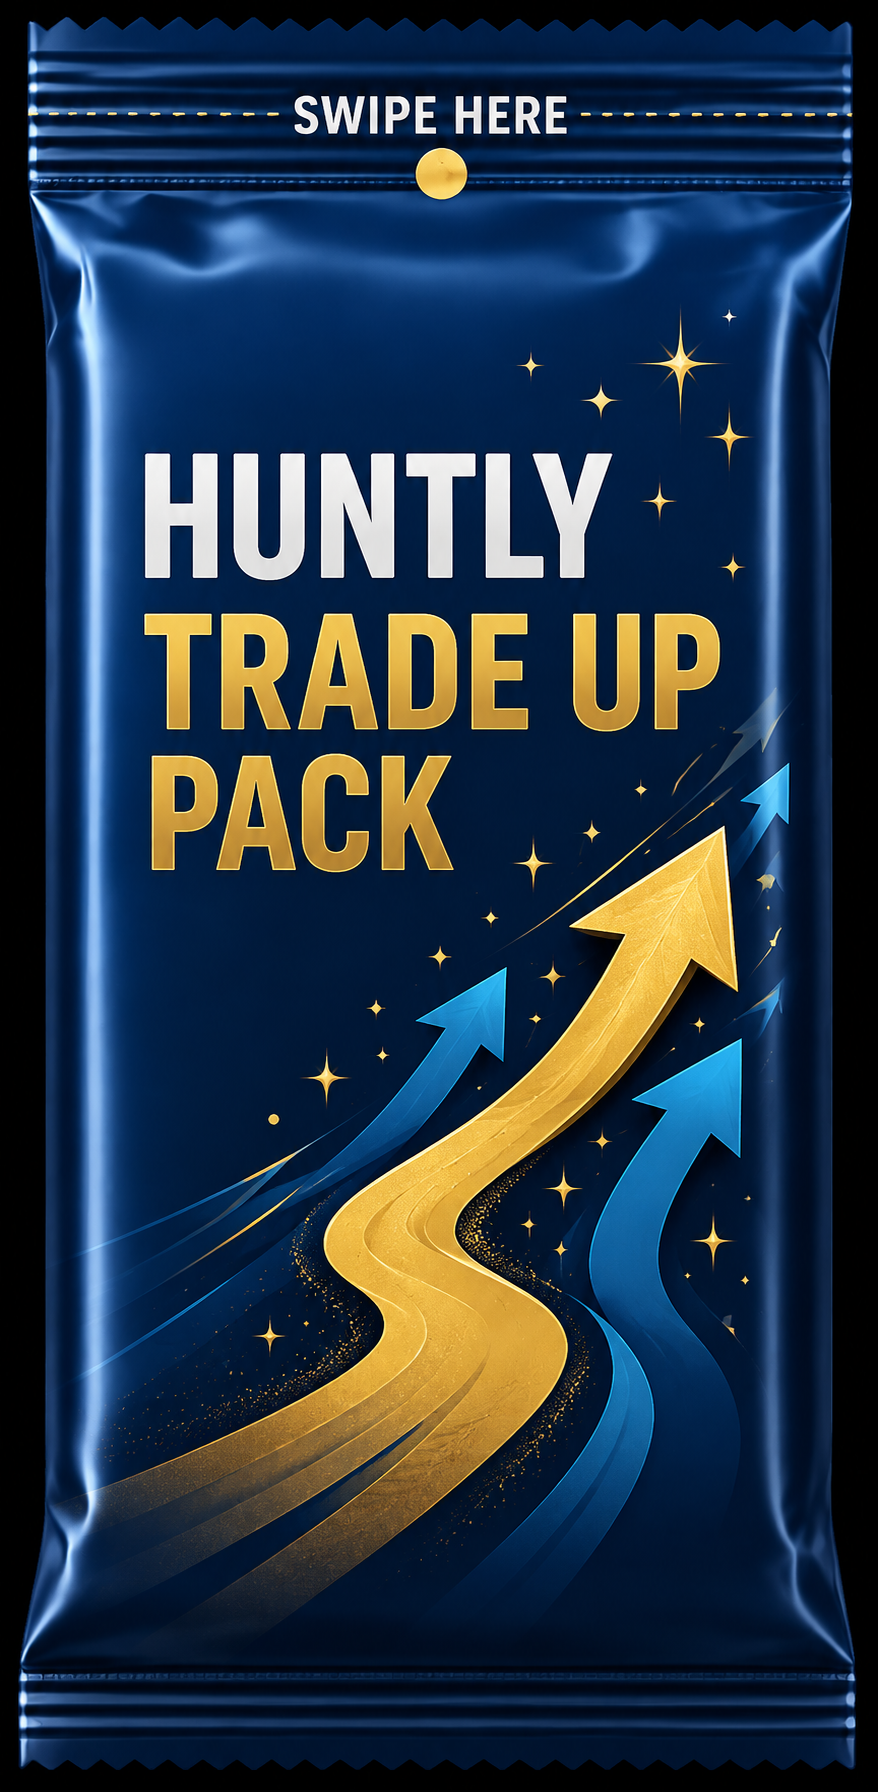
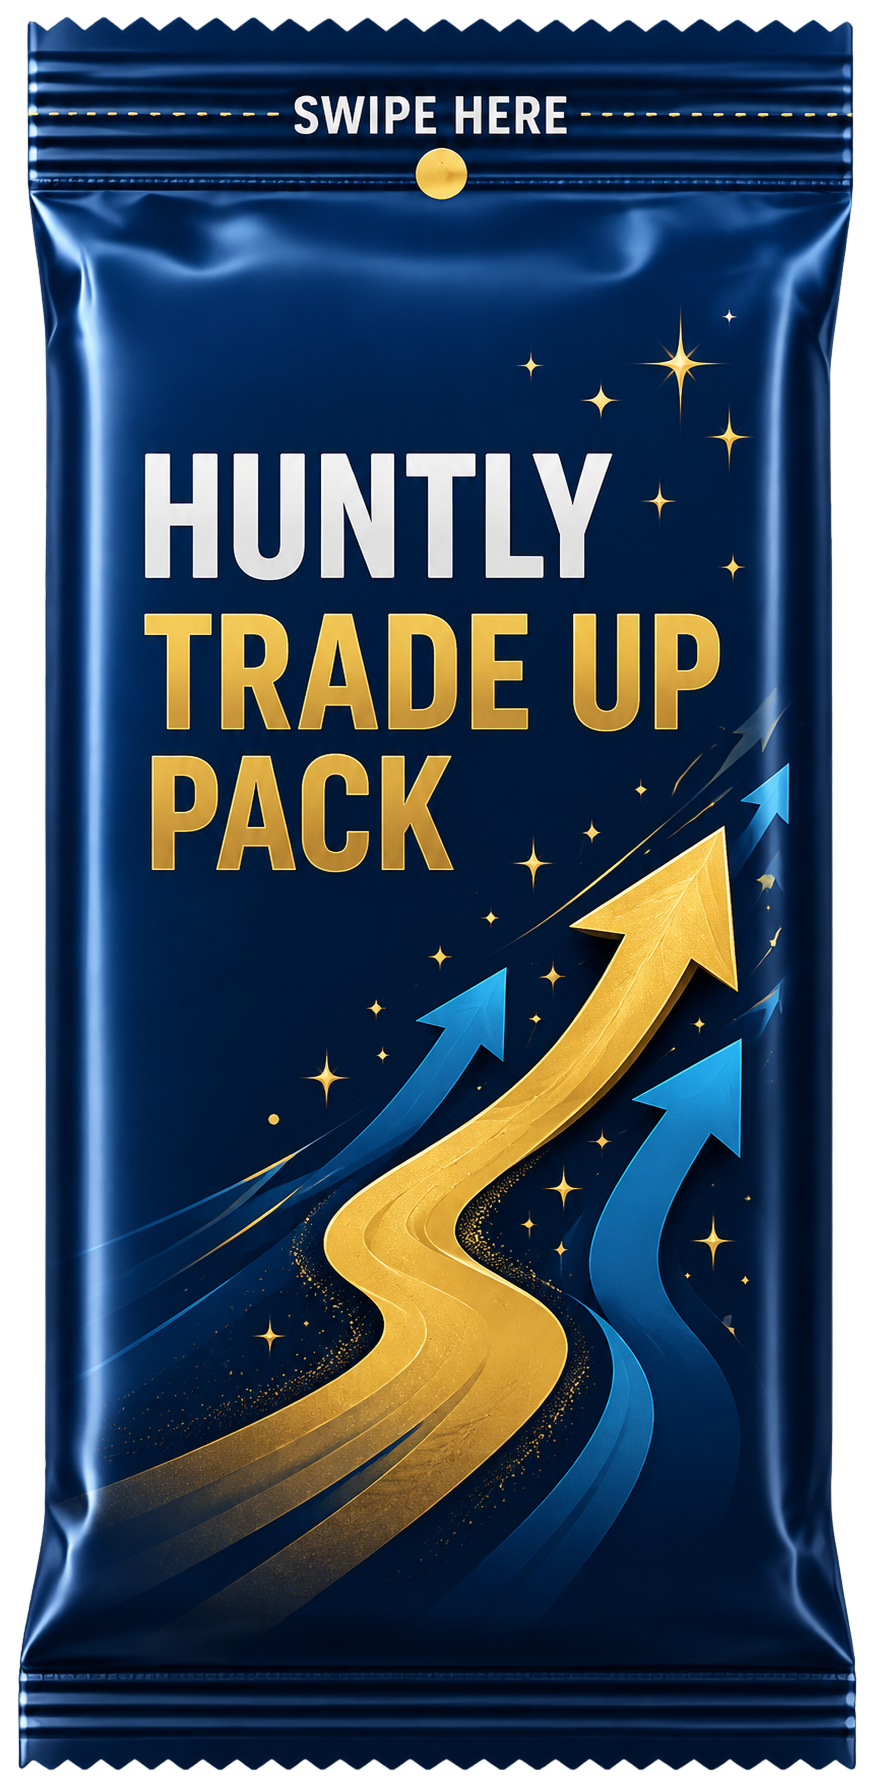
Fix pack inventory: real 50/50 grid, dedupe by source, correct art file
- Grid tiles now use percentage width + aspectRatio instead of
  pixel math from window width. The old formula under-counted the
  nested BinderPageSheet + section padding, so tiles came out wider
  than half the available space and wrapped to one per row.
- Same-source packs within a profile now collapse into one tile with
  a count badge (top-right) instead of listing every duplicate
  separately. Tapping opens that source's packs first, then the rest
  of the profile's queue, same as before.
- explore-pack-trade.png was the wrong download -- a flattened/opaque
  variant (no alpha channel), which is why it showed a black backdrop
  instead of blending into the screen. Replaced with the correct
  transparent version.

Changed region(s): [[0.0, 0.0, 1.0, 1.0]]

diff --git a/apps/mobile/app/(tabs)/activity/explore-packs.tsx b/apps/mobile/app/(tabs)/activity/explore-packs.tsx
@@ -10,7 +10,6 @@ import {
   Pressable,
   ScrollView,
   StyleSheet,
-  useWindowDimensions,
   View,
 } from "react-native";
 import { Stack, useLocalSearchParams, useRouter } from "expo-router";
@@ -38,9 +37,24 @@ const PACK_ART_BY_SOURCE: Record<ExplorePackRecord["source"], number> = {
   trade: require("@/assets/images/explore-pack-trade.png"),
 };
 
+/** Collapses same-source packs into one tile with a duplicate count. */
+function groupBySource(
+  packs: ExplorePackRecord[]
+): { source: ExplorePackRecord["source"]; packs: ExplorePackRecord[] }[] {
+  const bySource = new Map<ExplorePackRecord["source"], ExplorePackRecord[]>();
+  for (const pack of packs) {
+    const list = bySource.get(pack.source) ?? [];
+    list.push(pack);
+    bySource.set(pack.source, list);
+  }
+  return Array.from(bySource.entries()).map(([source, sourcePacks]) => ({
+    source,
+    packs: sourcePacks,
+  }));
+}
+
 export default function ExplorePacksScreen() {
   const router = useRouter();
-  const { width: windowW } = useWindowDimensions();
   const { profileId: profileIdParam } = useLocalSearchParams<{ profileId?: string }>();
   const { profiles, loading: profilesLoading } = usePlayer();
   const { bankedPacksByProfile, refresh } = useBankedPacksByProfile();
@@ -65,13 +79,12 @@ export default function ExplorePacksScreen() {
   const [packQueue, setPackQueue] = useState<ExplorePackRecord[] | null>(null);
   const [packQueueIndex, setPackQueueIndex] = useState(0);
 
-  const tileWidth = (windowW - H_PAD * 2 - 8 * 2 - GRID_GAP * (COLUMNS - 1)) / COLUMNS;
-  const tileHeight = tileWidth / PACK_ASPECT;
-
-  function openTile(profilePacks: ExplorePackRecord[], tapped: ExplorePackRecord) {
-    const rest = profilePacks.filter((p) => p.id !== tapped.id);
+  /** Opens the tapped group's packs first, then the rest of that profile's packs. */
+  function openTile(profilePacks: ExplorePackRecord[], group: ExplorePackRecord[]) {
+    const groupIds = new Set(group.map((p) => p.id));
+    const rest = profilePacks.filter((p) => !groupIds.has(p.id));
     setPackQueueIndex(0);
-    setPackQueue([tapped, ...rest]);
+    setPackQueue([...group, ...rest]);
   }
 
   function closeQueue() {
@@ -143,22 +156,22 @@ export default function ExplorePacksScreen() {
                     {(profile.nickname || profile.name || "Player") + "’s packs"}
                   </ThemedText>
                   <View style={styles.grid}>
-                    {packs.map((pack) => (
+                    {groupBySource(packs).map((group) => (
                       <Pressable
-                        key={pack.id}
-                        onPress={() => openTile(packs, pack)}
+                        key={group.source}
+                        onPress={() => openTile(packs, group.packs)}
                         accessibilityRole="button"
-                        accessibilityLabel={`Open pack from ${
-                          pack.source === "trade" ? "a trade" : "a stop"
-                        }`}
-                        style={[styles.tile, { width: tileWidth, height: tileHeight }]}
+                        accessibilityLabel={`Open ${group.packs.length} pack${
+                          group.packs.length === 1 ? "" : "s"
+                        } from ${group.source === "trade" ? "trades" : "stops"}`}
+                        style={styles.tile}
                       >
                         <Image
-                          source={PACK_ART_BY_SOURCE[pack.source]}
+                          source={PACK_ART_BY_SOURCE[group.source]}
                           style={styles.tileImage}
                           resizeMode="contain"
                         />
-                        {pack.source === "trade" ? (
+                        {group.source === "trade" ? (
                           <View style={styles.sourceTag}>
                             <ThemedText
                               lightColor="#132414"
@@ -166,6 +179,17 @@ export default function ExplorePacksScreen() {
                               style={styles.sourceTagText}
                             >
                               Traded
+                            </ThemedText>
+                          </View>
+                        ) : null}
+                        {group.packs.length > 1 ? (
+                          <View style={styles.countBadge}>
+                            <ThemedText
+                              lightColor="#132414"
+                              darkColor="#132414"
+                              style={styles.countBadgeText}
+                            >
+                              {group.packs.length}
                             </ThemedText>
                           </View>
                         ) : null}
@@ -239,6 +263,8 @@ const styles = StyleSheet.create({
     gap: GRID_GAP,
   },
   tile: {
+    width: `${100 / COLUMNS - 3}%`,
+    aspectRatio: PACK_ASPECT,
     alignItems: "center",
     justifyContent: "center",
   },
@@ -249,7 +275,7 @@ const styles = StyleSheet.create({
   sourceTag: {
     position: "absolute",
     top: 8,
-    right: 8,
+    left: 8,
     backgroundColor: "#B8F000",
     borderRadius: 10,
     paddingHorizontal: 8,
@@ -257,6 +283,22 @@ const styles = StyleSheet.create({
   },
   sourceTagText: {
     fontSize: 11,
+    fontWeight: "800",
+  },
+  countBadge: {
+    position: "absolute",
+    top: 8,
+    right: 8,
+    minWidth: 22,
+    height: 22,
+    borderRadius: 11,
+    paddingHorizontal: 5,
+    alignItems: "center",
+    justifyContent: "center",
+    backgroundColor: "#FFF",
+  },
+  countBadgeText: {
+    fontSize: 12,
     fontWeight: "800",
   },
 });
